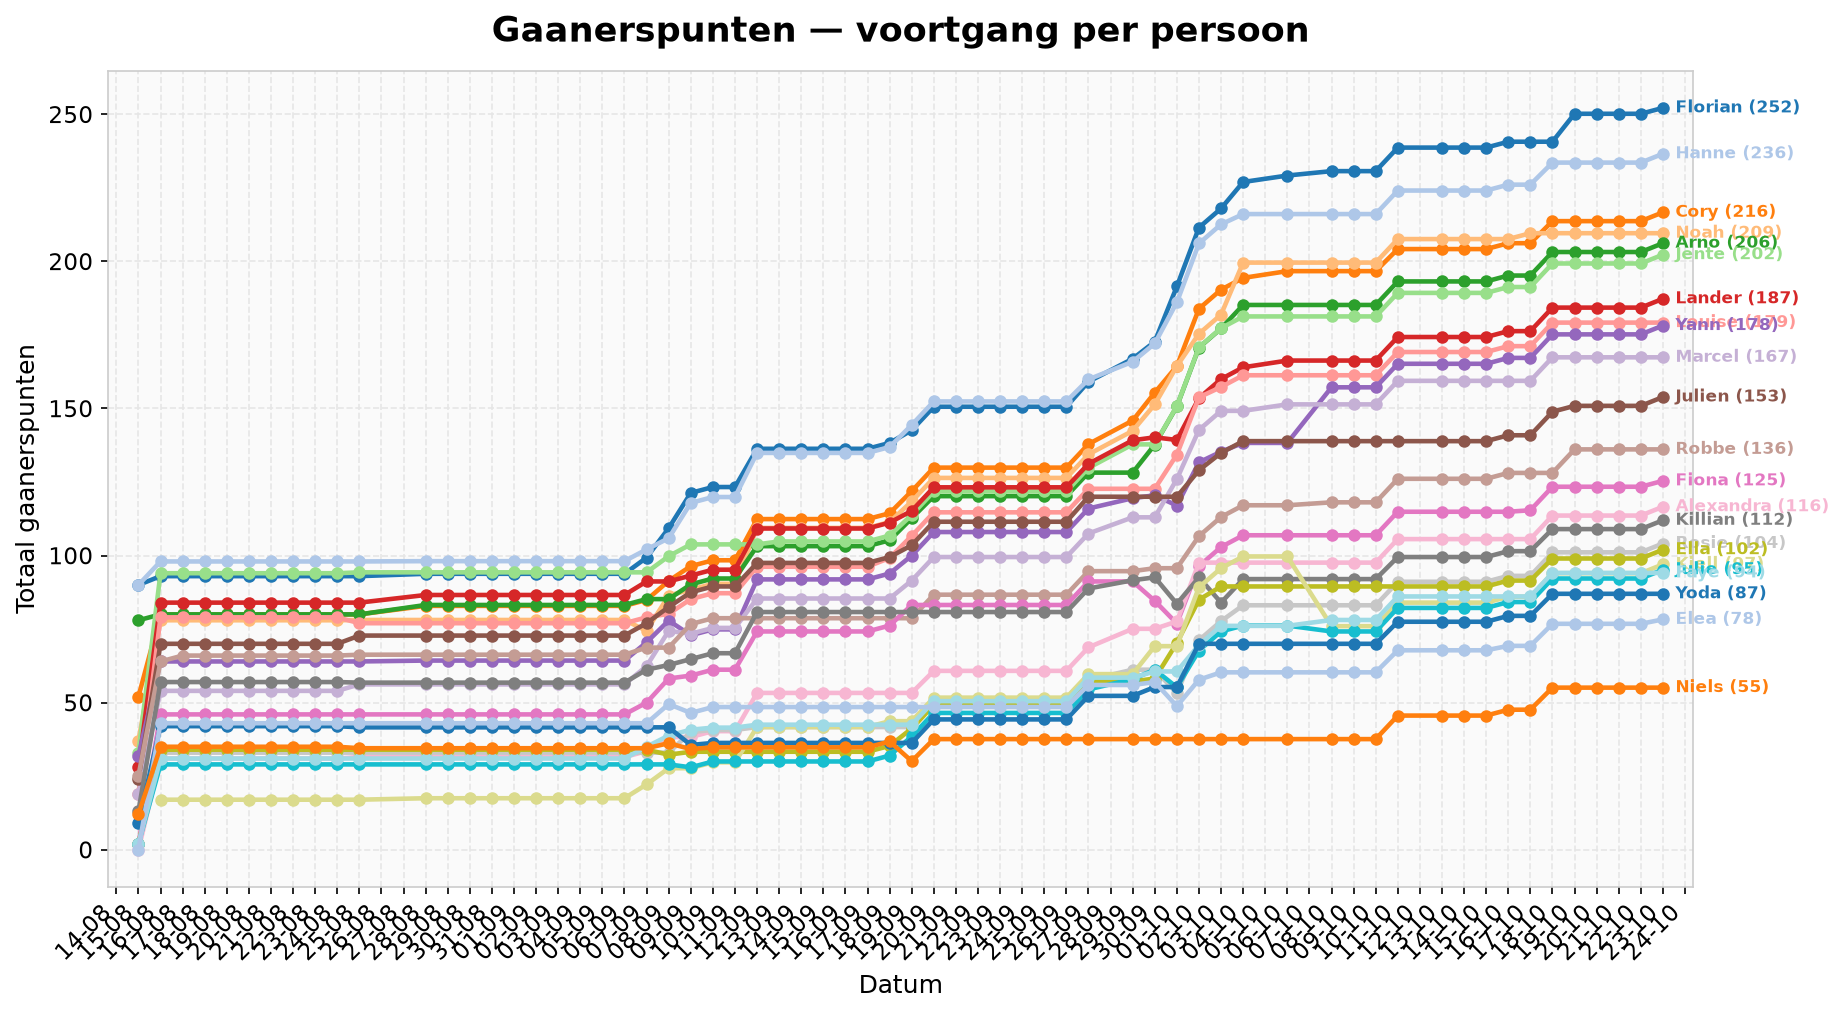
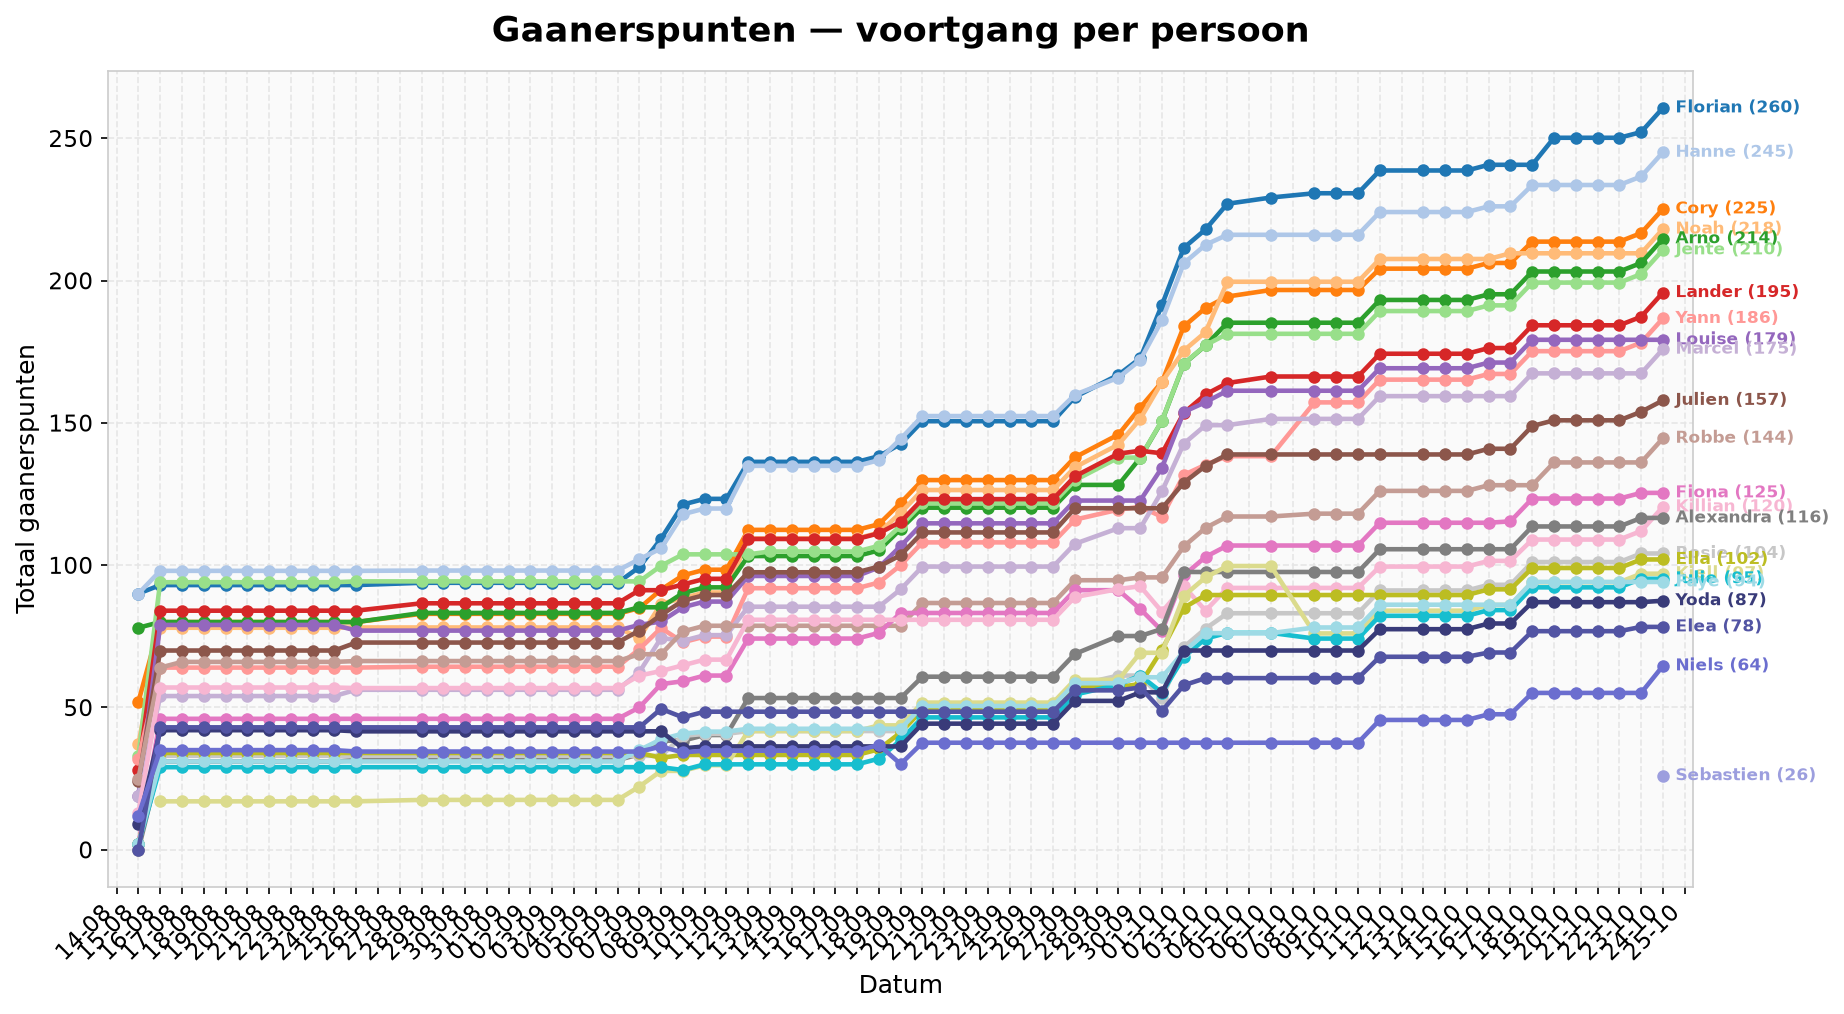
Add support for 24+ people by extending color palette
Add tab20b and tab20c colormaps to support up to 60 unique colors,
fixing the graph for the newly added person (Sebastien).

diff --git a/make_graph.py b/make_graph.py
@@ -39,7 +39,7 @@ def plot(pivot):
     fig, ax = plt.subplots(figsize=(14, 8))
     laatste_score = pivot.iloc[-1].sort_values(ascending=False)
     top_namen = laatste_score.index.tolist()
-    kleuren = plt.cm.tab20.colors
+    kleuren = plt.cm.tab20.colors + plt.cm.tab20b.colors + plt.cm.tab20c.colors
 
     for i, naam in enumerate(top_namen):
         kleur = kleuren[i % len(kleuren)]
